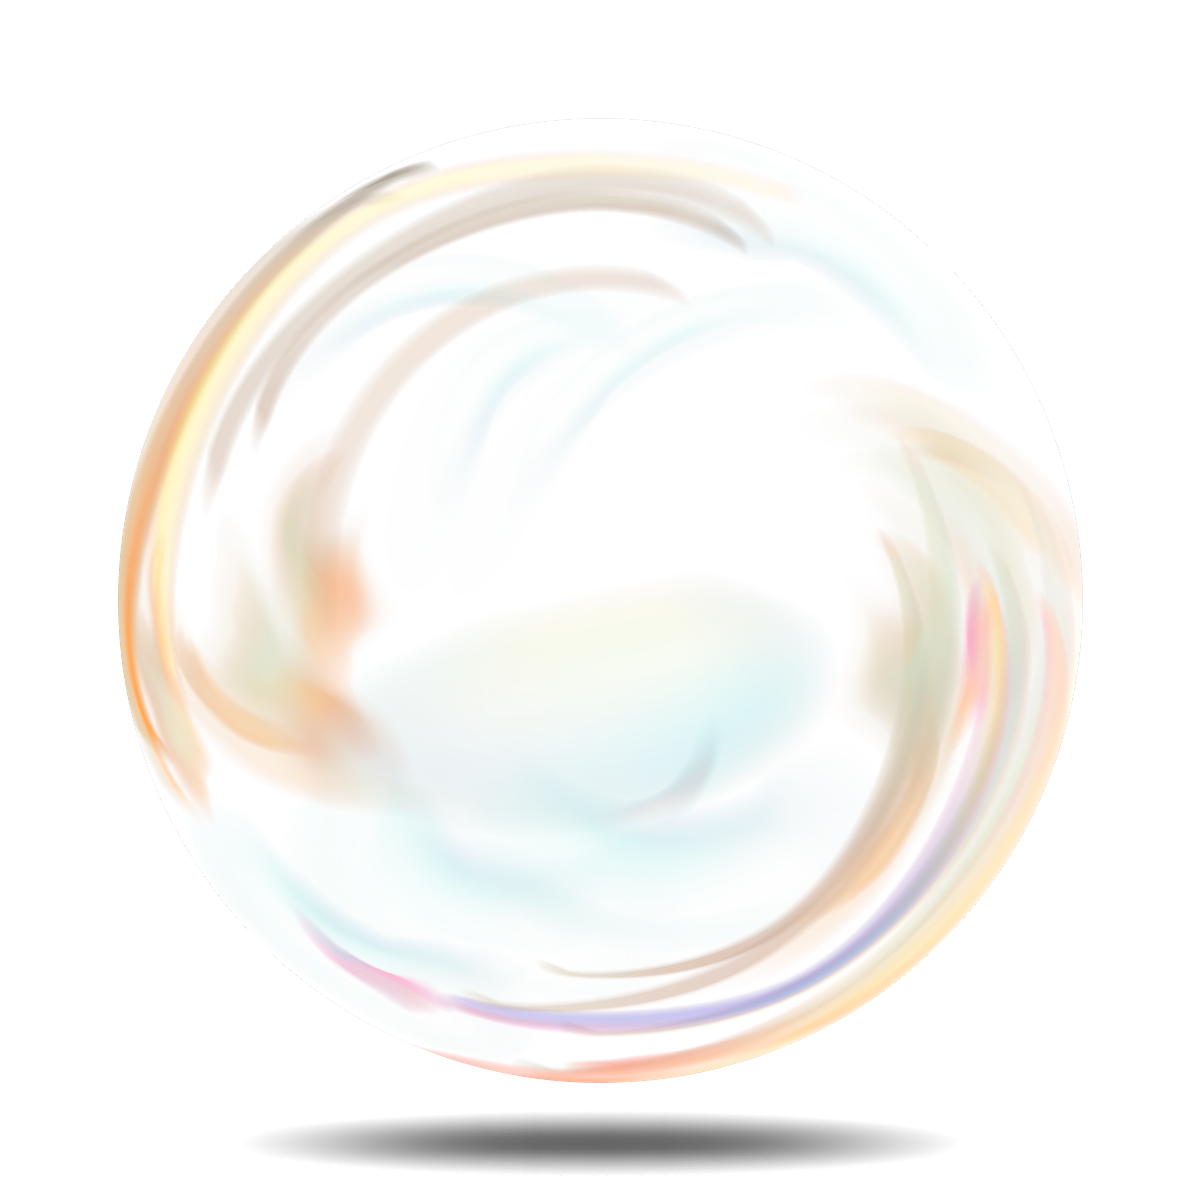
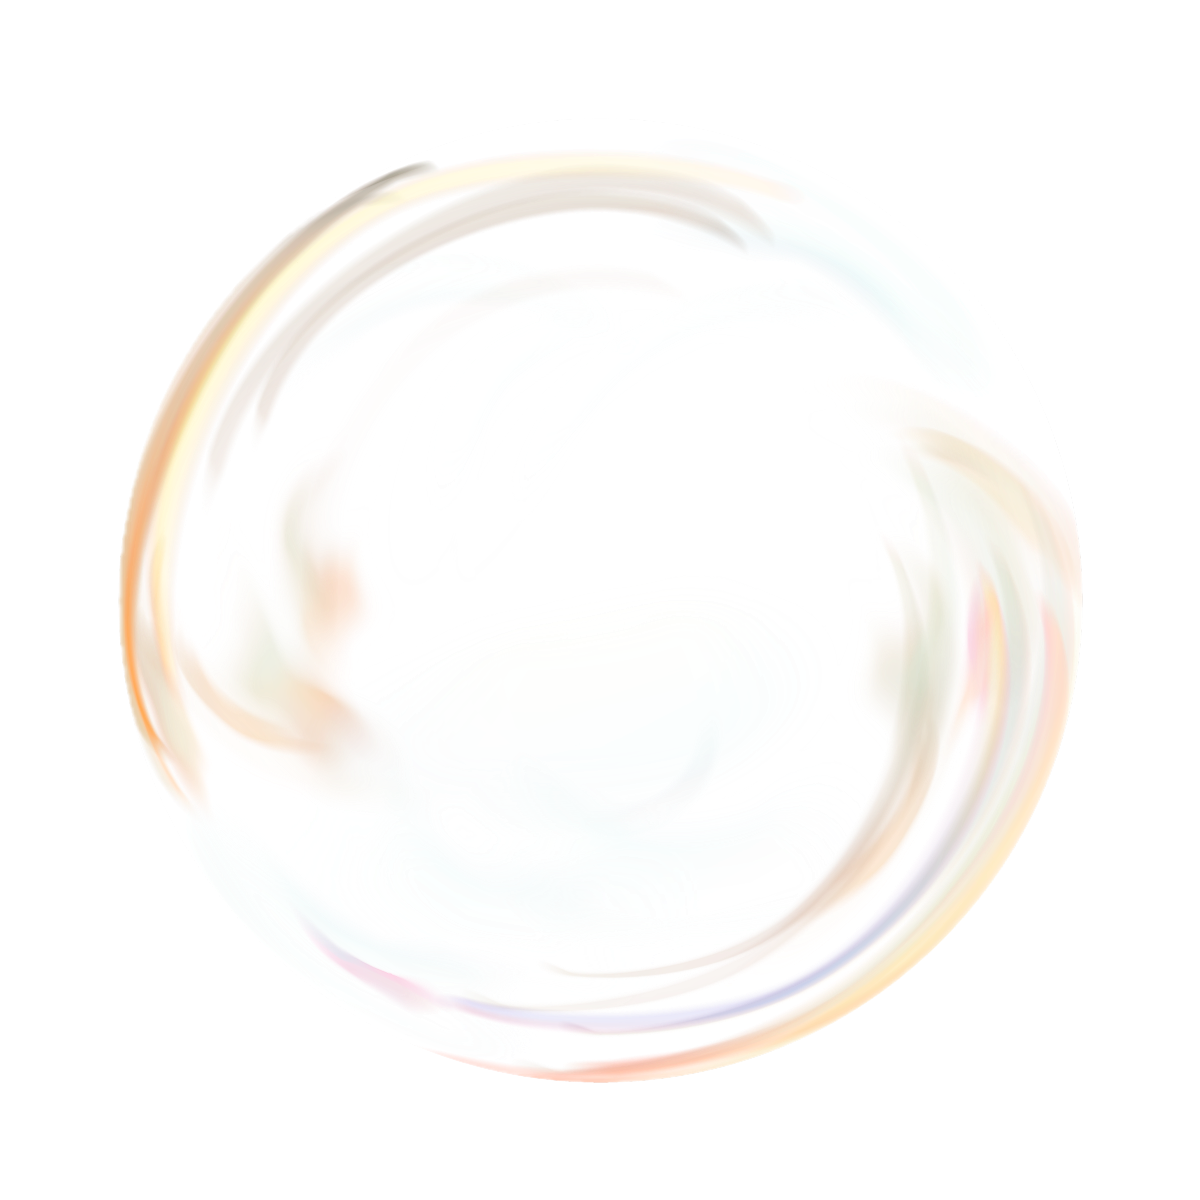
Mute scrolling background, wider bubble size/speed variance, push new bubblebub
- Background: remove fixed attachment (now scrolls with page), add white overlay
  layer (rgba 0.28) to mute the cloud image without replacing it
- Bubbles: 18 bubbles with sizes 18-145px (was 28-110), durations 2.5-7.8s (was
  3.9-6.0s), spread evenly across 0-95% left; rise -1600px to clear full viewport
- Push updated bubblebub.png

diff --git a/website/src/components/Waitlist.tsx b/website/src/components/Waitlist.tsx
@@ -65,31 +65,35 @@ export function Waitlist() {
       {/* Animated Rising Bubbles - fixed so they float over the whole site */}
       <div className="fixed inset-0 pointer-events-none overflow-hidden z-50">
         {showBubbles && [
-          { size: 40,  left: 8,  delay: 0,    duration: 4.5 },
-          { size: 70,  left: 18, delay: 0.4,  duration: 5.2 },
-          { size: 30,  left: 28, delay: 0.1,  duration: 4.0 },
-          { size: 90,  left: 38, delay: 0.7,  duration: 5.6 },
-          { size: 50,  left: 48, delay: 0.2,  duration: 4.8 },
-          { size: 110, left: 58, delay: 0.5,  duration: 6.0 },
-          { size: 35,  left: 66, delay: 0.15, duration: 4.2 },
-          { size: 75,  left: 75, delay: 0.6,  duration: 5.4 },
-          { size: 55,  left: 14, delay: 0.9,  duration: 4.6 },
-          { size: 95,  left: 85, delay: 0.25, duration: 5.8 },
-          { size: 42,  left: 52, delay: 0.45, duration: 4.3 },
-          { size: 65,  left: 33, delay: 0.8,  duration: 5.0 },
-          { size: 28,  left: 92, delay: 0.3,  duration: 3.9 },
-          { size: 80,  left: 5,  delay: 1.0,  duration: 5.5 },
+          { size: 22,  left: 4,  delay: 0.0,  duration: 2.8 },
+          { size: 95,  left: 11, delay: 0.5,  duration: 6.2 },
+          { size: 38,  left: 19, delay: 0.1,  duration: 3.5 },
+          { size: 140, left: 27, delay: 0.8,  duration: 7.4 },
+          { size: 55,  left: 34, delay: 0.3,  duration: 4.6 },
+          { size: 18,  left: 42, delay: 0.05, duration: 2.5 },
+          { size: 115, left: 51, delay: 0.65, duration: 6.8 },
+          { size: 44,  left: 58, delay: 0.2,  duration: 3.9 },
+          { size: 78,  left: 65, delay: 0.45, duration: 5.5 },
+          { size: 28,  left: 73, delay: 0.15, duration: 3.1 },
+          { size: 130, left: 81, delay: 0.9,  duration: 7.0 },
+          { size: 50,  left: 88, delay: 0.35, duration: 4.2 },
+          { size: 20,  left: 95, delay: 0.7,  duration: 2.7 },
+          { size: 85,  left: 7,  delay: 1.1,  duration: 5.8 },
+          { size: 35,  left: 46, delay: 1.3,  duration: 3.4 },
+          { size: 105, left: 62, delay: 0.55, duration: 6.4 },
+          { size: 24,  left: 77, delay: 1.0,  duration: 2.9 },
+          { size: 145, left: 38, delay: 0.4,  duration: 7.8 },
         ].map((b, i) => (
           <motion.img
             key={i}
             src="/bubblebub.png"
             alt=""
-            initial={{ y: 0, opacity: 0, scale: 0.4 }}
+            initial={{ y: 0, opacity: 0, scale: 0.3 }}
             animate={{
-              y: -1400,
-              opacity: [0, 0.9, 0.9, 0],
-              scale: [0.4, 1.0, 0.85],
-              x: [0, Math.sin(i * 0.9) * 80, Math.sin(i * 0.9 + 1) * 60]
+              y: -1600,
+              opacity: [0, 0.85, 0.85, 0],
+              scale: [0.3, 1.0, 0.9],
+              x: [0, Math.sin(i * 1.1) * 90, Math.sin(i * 1.1 + 1.5) * 55]
             }}
             transition={{
               duration: b.duration,

diff --git a/website/src/app/globals.css b/website/src/app/globals.css
@@ -20,11 +20,13 @@
 html, body {
   min-height: 100vh;
   background-color: #ede8f5;
-  background-image: url('/bg-clouds.png');
-  background-position: center center;
-  background-size: cover;
-  background-attachment: fixed;
-  background-repeat: no-repeat;
+  background-image:
+    linear-gradient(rgba(255, 255, 255, 0.28), rgba(255, 255, 255, 0.28)),
+    url('/bg-clouds.png');
+  background-position: center top, center top;
+  background-size: cover, cover;
+  background-repeat: no-repeat, no-repeat;
+  background-attachment: scroll, scroll;
 }
 
 body {